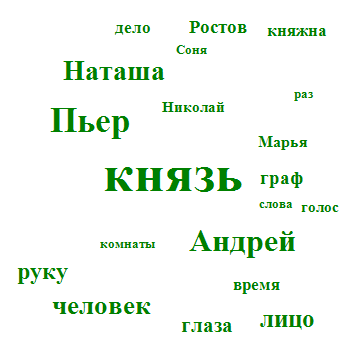
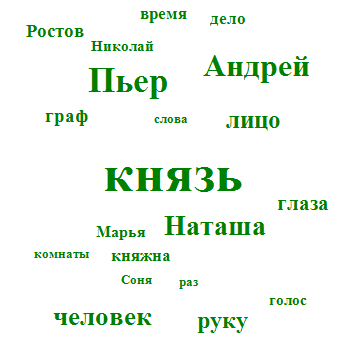
Add LengthFilter, regenerate examples

diff --git a/TagCloudGenerator/TagCloudGenerator/Program.cs b/TagCloudGenerator/TagCloudGenerator/Program.cs
@@ -27,11 +27,12 @@ Options:
     --word-list=<filename>   Load words from text file that contains one word per line.
     --text=<filename>        Load words from document with text (only *.txt is supported yet).
     --count=<count>          Maximal count of words that will be displayed [default: 20].
-    --bg-color=<color>       Set image background color [default: white].
-    --text-color=<color>     Set text color [default: green].
-    --font-family=<name>     Set font family [default: Times New Roman].
-    --width=<pixels>         Set image width [default: 350].
-    --height=<pixels>        Set image height [default: 350].";
+    --min-length=<value>     Minimal length of words that will be displayed [default: 3].
+    --bg-color=<color>       Image background color (in HTML notation) [default: white].
+    --text-color=<color>     Text color (in HTML notation) [default: green].
+    --font-family=<name>     Font family [default: Times New Roman].
+    --width=<pixels>         Image width [default: 350].
+    --height=<pixels>        Image height [default: 350].";
 
         static readonly Dictionary<string, ImageFormat> ImageFormats = new Dictionary<string, ImageFormat>()
         {
@@ -67,6 +68,8 @@ Options:
                         PartOfSpeech.Adjective,
                         PartOfSpeech.Noun,
                     });
+                container.Bind<LengthFilter>().ToSelf()
+                    .WithConstructorArgument("minLength", options["--min-length"].AsInt);
                 container.Bind<MostCommonWordsFilter>().ToSelf()
                     .WithConstructorArgument("count", options["--count"].AsInt);
 
@@ -96,6 +99,7 @@ Options:
                     {
                         container.Get<PartsOfSpeechFilter>(),
                         container.Get<GrammarFormsJoiner>(),
+                        container.Get<LengthFilter>(),
                         container.Get<MostCommonWordsFilter>(),
                     });
 

diff --git a/TagCloudGenerator/TagCloudGenerator/WordsFilters/LengthFilter.cs b/TagCloudGenerator/TagCloudGenerator/WordsFilters/LengthFilter.cs
@@ -1,0 +1,24 @@
+using System.Collections.Generic;
+using System.Linq;
+using TagCloudGenerator.GrammarInfo;
+
+namespace TagCloudGenerator.WordsFilters
+{
+    class LengthFilter : IWordsFilter
+    {
+        readonly int minLength;
+
+        public LengthFilter(int minLength)
+        {
+            this.minLength = minLength;
+        }
+
+        public Dictionary<string, int> Filter(IReadOnlyDictionary<string, int> statistics,
+            IReadOnlyDictionary<string, WordGrammarInfo> grammarInfo)
+        {
+            return statistics
+                .Where(pair => pair.Key.Length >= minLength)
+                .ToDictionary(pair => pair.Key, pair => pair.Value);
+        }
+    }
+}
